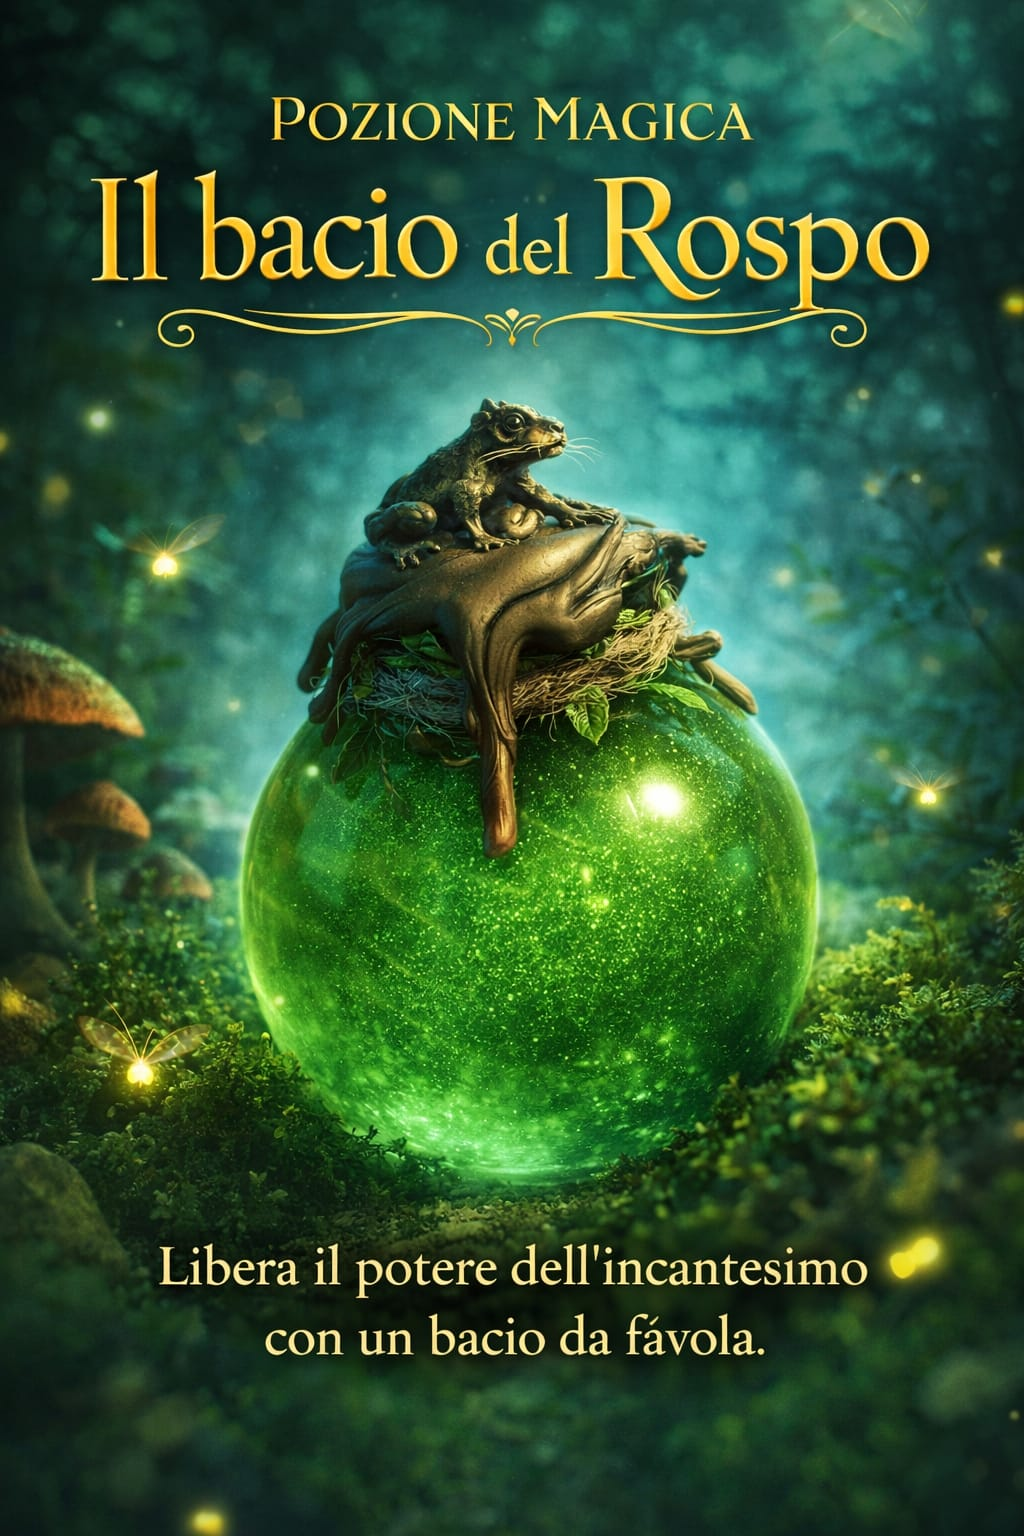
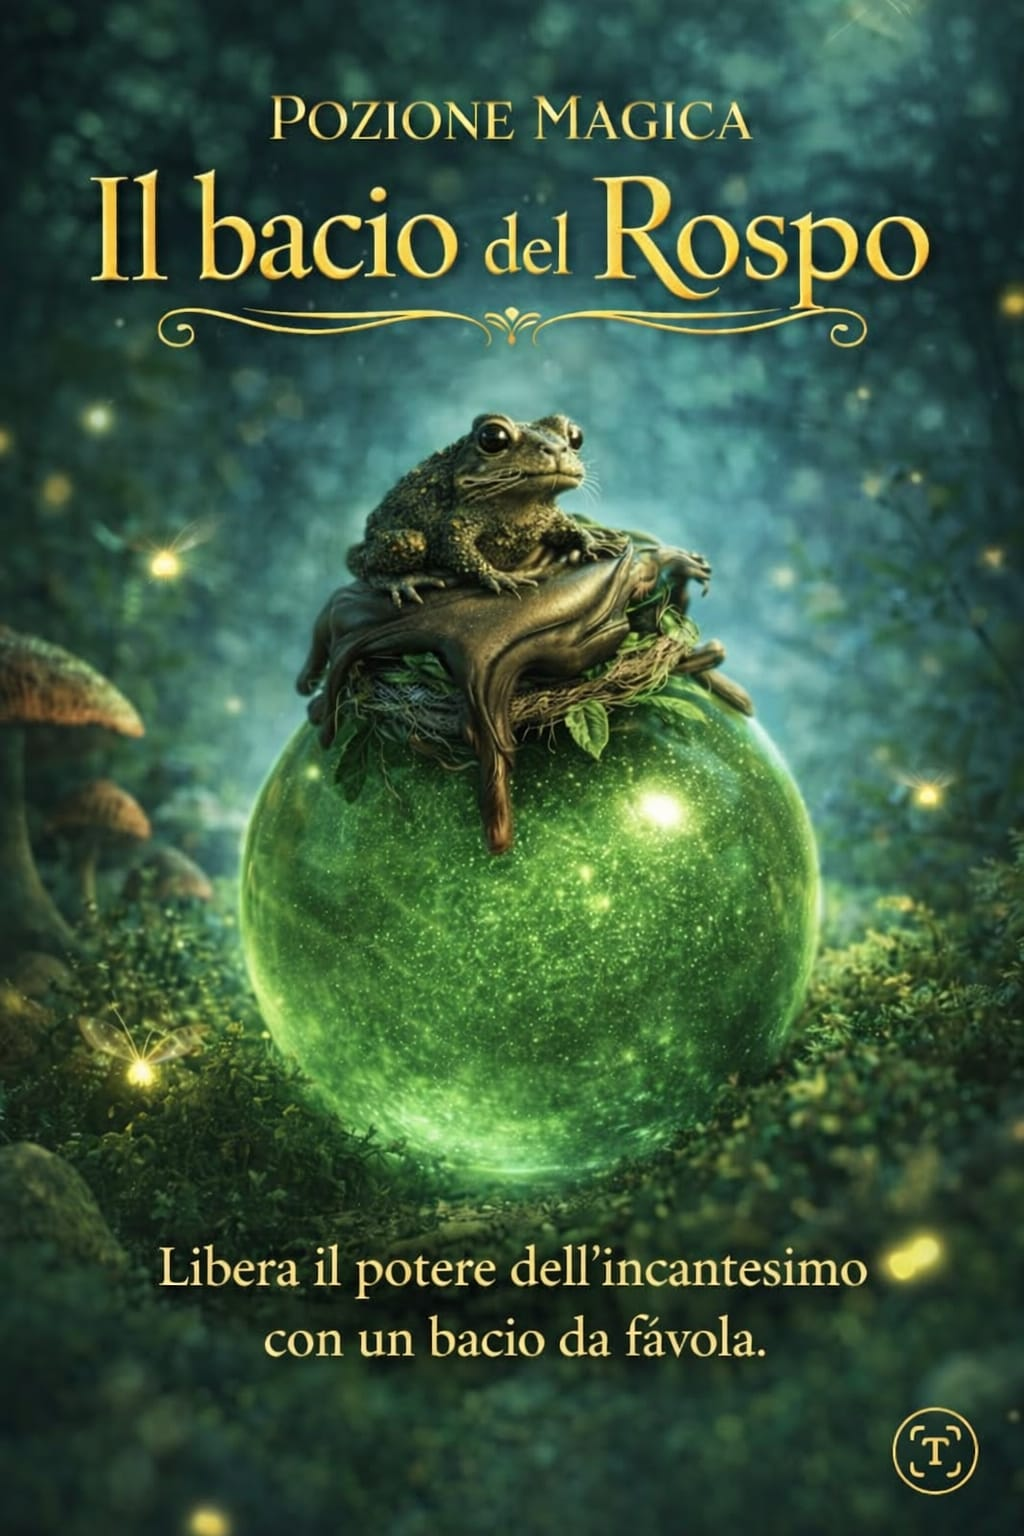
Add files via upload

diff --git a/Pozioni/PassionediDracula.html b/Pozioni/PassionediDracula.html
@@ -408,6 +408,9 @@ Sul retro infine, troviamo l'indimenticabile frase tratta dall'omonimo film "Ho 
     <div class="gallery-item">
       <img src="PassionediDracula/PassionediDracula003.jpeg" alt="PassionediDracula — dettaglio 4">
     </div>
+	<div class="gallery-item">
+      <img src="PassionediDracula/PassionediDracula006.jpeg" alt="PassionediDracula — dettaglio 5">
+    </div>
 	
 	<div class="gallery-item video">
 	  <video controls autoplay muted loop playsinline>
@@ -417,11 +420,6 @@ Sul retro infine, troviamo l'indimenticabile frase tratta dall'omonimo film "Ho 
 	<div class="gallery-item video">
 	  <video controls autoplay muted loop playsinline>
       <source src="PassionediDracula/PassionediDracula005.mp4" type="video/mp4">
-	  </video>
-	</div>
-	<div class="gallery-item video">
-	  <video controls autoplay muted loop playsinline>
-      <source src="PassionediDracula/PassionediDracula006.mp4" type="video/mp4">
 	  </video>
 	</div>
     <!-- Aggiungi altri <div class="gallery-item"> per nuove foto -->

diff --git a/alchimia-ambra.html b/alchimia-ambra.html
@@ -401,7 +401,7 @@ window.addEventListener("DOMContentLoaded", function() {
 	<div class="gallery-item video">
 	  <video controls autoplay muted loop playsinline>
       <source src="AlchimiaAmbra/AlchimiaAmbra01Etzy.mp4" type="video/mp4">
-	</video>
+	  </video>
 	</div>
     <div class="gallery-item">
       <img src="AlchimiaAmbra/AlchimiaAmbra002.jpeg" alt="Alchimie Ambra — dettaglio 2">
